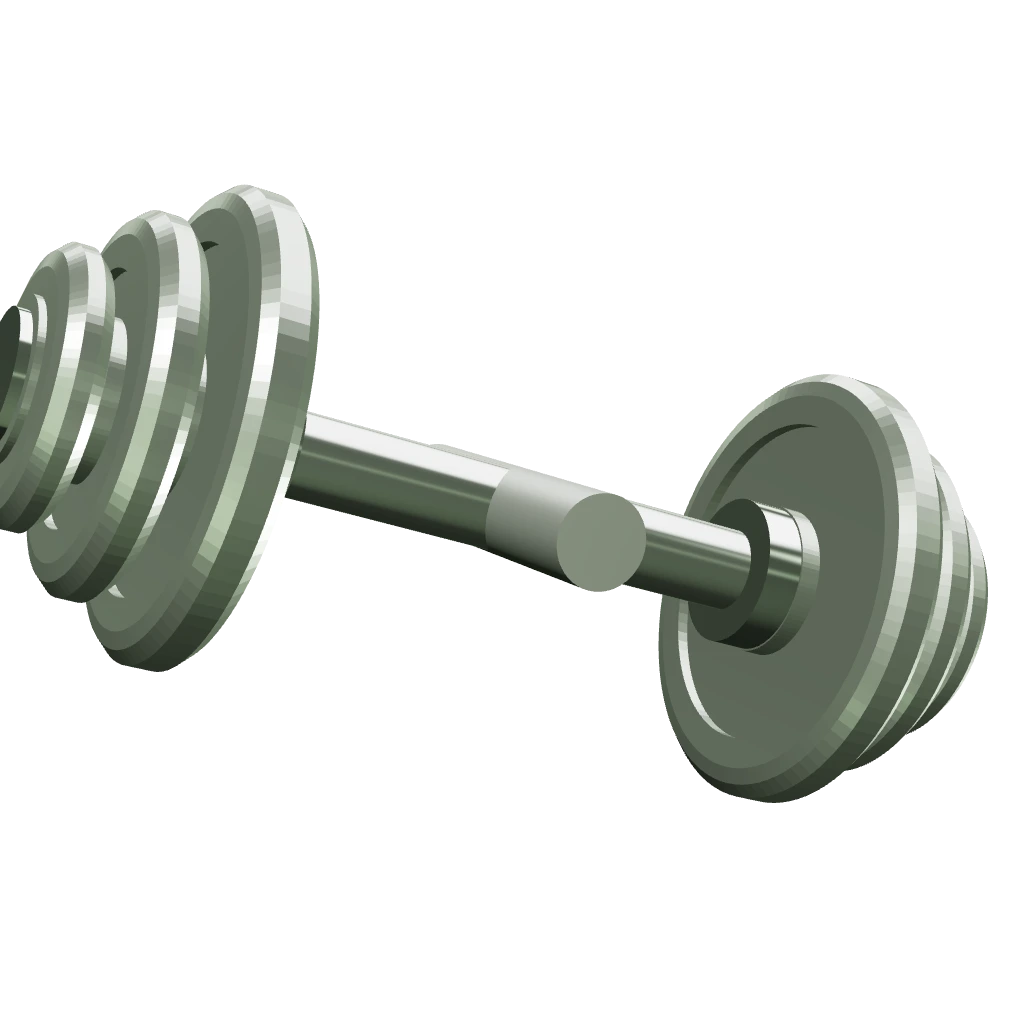
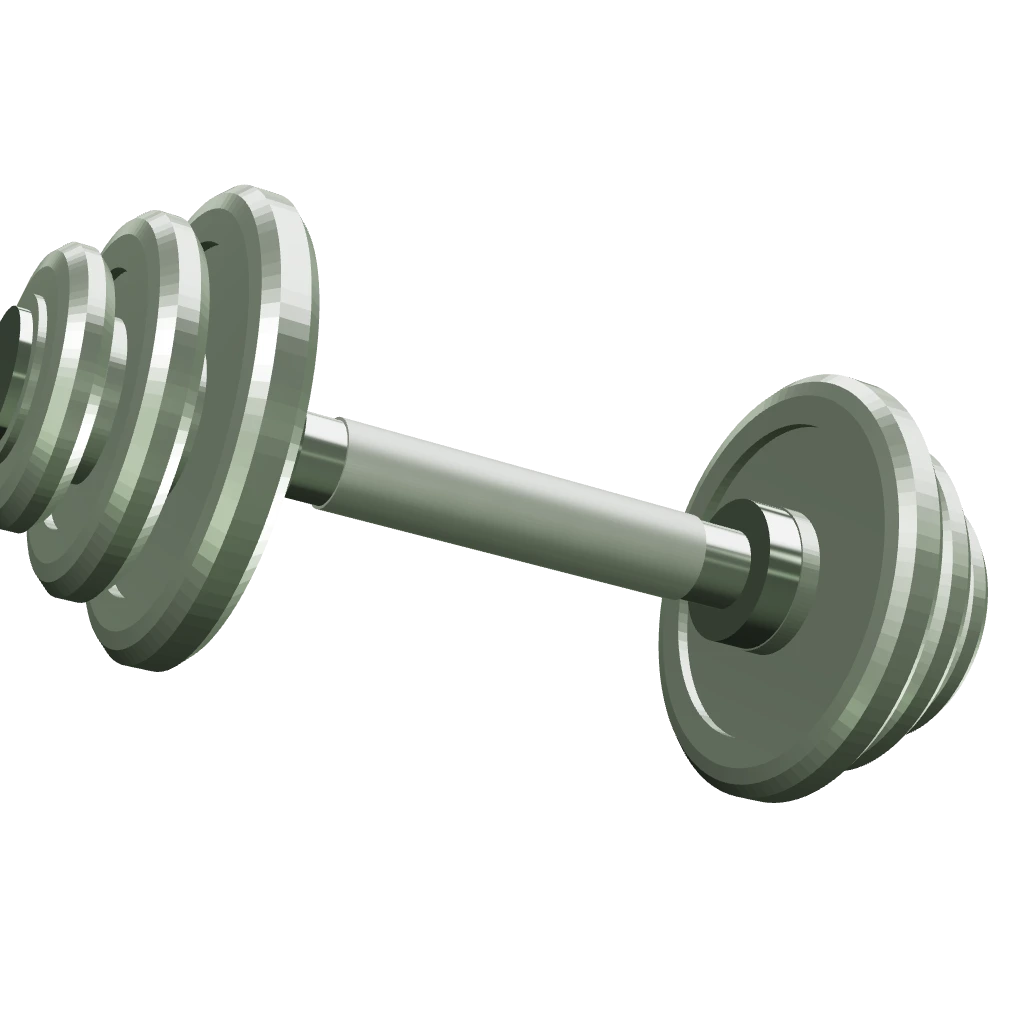
Fix the disc through the bar, and give the weight motion
Two things, both on the hero object.

The render had a disc punched through the middle of the shaft. The knurled
grip sleeve carried a second rotation: cyl() has already laid the cylinder
along X with rotation.z, so a further rotation.y composes on top of it
(Euler XYZ) and swings the sleeve round to point at the camera, showing its
flat end cap. The knurl never needed that rotation -- CylinderGeometry
wraps U around the circumference already, which is the direction the map
repeats in. One line out, re-rendered, 32 KB.

The weight now moves. An 8s idle float carries it up and back with a degree
of roll, and the contact shadow counter-animates -- tightening and fading
as the weight rises, which is what reads as lifting off the page rather
than sliding across it. On scroll it turns -8 degrees across the hero, on
top of the drift and fade that were already derived from --par.

The float and the turn sit on different elements on purpose: one transform
per element, so the keyframe animation cannot silently overwrite the
scroll-driven one. The shadow animates opacity and the standalone scale
property rather than transform, so Tailwind's -translate-x-1/2 keeps
holding it centred. prefers-reduced-motion stops the float outright; the
turn goes to zero on its own, because the scroll handler never starts and
--par stays 0.

Changed region(s): [[0.3125, 0.4062, 0.6875, 0.5938]]

diff --git a/src/frontend/site/hero-object.tsx b/src/frontend/site/hero-object.tsx
@@ -12,12 +12,18 @@ import { useImageFallback } from "@/frontend/site/use-image-fallback";
  * column starting past where the text column ends (`lg:left-[62%]`), and comes
  * up to full strength. Both treatments come from `.hero-object` in globals.css.
  *
- * Motion. The scroll handler writes exactly one number — `--par`, 0 at the top
- * of the page and 1 once the hero has scrolled away — and every visible effect
- * is derived from it in CSS (`.parallax` for the drift, `.hero-object` for the
- * fade). That split is deliberate: `prefers-reduced-motion` switches the whole
- * effect off in the stylesheet, and this component needs no branch for it
- * beyond declining to start the listener.
+ * Motion, in two kinds. The scroll handler writes exactly one number — `--par`,
+ * 0 at the top of the page and 1 once the hero has scrolled away — and every
+ * scroll-driven effect is derived from it in CSS (`.parallax` for the drift,
+ * `.hero-object` for the fade, `--ho-turn` here for the turn). On top of that
+ * the weight keeps a slow idle float of its own, which is a keyframe animation
+ * and knows nothing about scrolling (`.hero-weight` in globals.css).
+ *
+ * The two never share an element: the float owns `transform` on the weight, the
+ * scroll turn owns `transform` on the box around it. Putting both on one
+ * element would let the animation silently win. `prefers-reduced-motion`
+ * switches all of it off in the stylesheet, so this component needs no branch
+ * for it beyond declining to start the listener.
  *
  * Asset. `src` is expected to be a *transparent* PNG/WebP cut-out — the bloom
  * and contact shadow below only seat the object on the olive if the file has
@@ -102,6 +108,10 @@ export function HeroObject({
         ["--ho-x" as string]: "0%",
         ["--ho-y" as string]: "0%",
         ["--ho-scale" as string]: "1",
+        // How far the weight turns across the hero. Derived from `--par` like
+        // every other scroll effect, so it stops with them under reduced
+        // motion without this component testing for it twice.
+        ["--ho-turn" as string]: "calc(var(--par, 0) * -8deg)",
         ...style,
       }}
     >
@@ -119,7 +129,7 @@ export function HeroObject({
         style={{
           aspectRatio: showImage && width && height ? `${width} / ${height}` : "1 / 1",
           transform:
-            "translate(var(--ho-x), var(--ho-y)) scale(var(--ho-scale))",
+            "translate(var(--ho-x), var(--ho-y)) scale(var(--ho-scale)) rotate(var(--ho-turn))",
         }}
       >
         {/*
@@ -152,7 +162,7 @@ export function HeroObject({
             width={width}
             height={height}
             decoding="async"
-            className="absolute inset-0 h-full w-full object-contain"
+            className="hero-weight absolute inset-0 h-full w-full object-contain"
             {...image.props}
           />
         ) : (
@@ -165,7 +175,7 @@ export function HeroObject({
           this behind it, and as a sticker without it.
         */}
         <div
-          className="absolute bottom-[6%] left-1/2 h-[7%] w-[62%] -translate-x-1/2 rounded-[50%] blur-md"
+          className="hero-weight-shadow absolute bottom-[6%] left-1/2 h-[7%] w-[62%] -translate-x-1/2 rounded-[50%] blur-md"
           style={{
             background:
               "radial-gradient(ellipse at center, rgba(11,13,11,0.55), transparent 72%)",
@@ -193,7 +203,7 @@ function PlatePlaceholder() {
   ];
 
   return (
-    <div className="absolute inset-0">
+    <div className="hero-weight absolute inset-0">
       {rings.map(([size, alpha]) => (
         <div
           key={size}

diff --git a/src/app/globals.css b/src/app/globals.css
@@ -318,6 +318,48 @@ html {
 }
 
 /*
+  Hero weight — the object's own motion, in two parts that must not fight.
+
+  The idle float lives here on the weight itself; the scroll drift and the
+  scroll turn live on the layers above it (`.parallax`, and `--ho-turn` on the
+  placement box). Splitting them across elements is what lets a keyframe
+  animation and a scroll-driven transform both run: one `transform` per
+  element, so neither has to win.
+
+  The shadow deliberately animates the *opposite* way and on `opacity`/`scale`
+  rather than `transform` — it has a Tailwind translate holding it centred,
+  and standalone `scale` composes with that instead of replacing it. A weight
+  that rises while its contact shadow tightens reads as lifting off the page;
+  a shadow that floats with it reads as a sticker.
+*/
+@keyframes hero-float {
+  0%,
+  100% {
+    transform: translate3d(0, 1.4%, 0) rotate(-0.7deg);
+  }
+  50% {
+    transform: translate3d(0, -1.8%, 0) rotate(0.8deg);
+  }
+}
+@keyframes hero-float-shadow {
+  0%,
+  100% {
+    opacity: 1;
+    scale: 1 1;
+  }
+  50% {
+    opacity: 0.55;
+    scale: 0.88 0.8;
+  }
+}
+.hero-weight {
+  animation: hero-float 8s ease-in-out infinite;
+}
+.hero-weight-shadow {
+  animation: hero-float-shadow 8s ease-in-out infinite;
+}
+
+/*
   Photographs.
 
   Hard-edged, never rounded: the whole system is built from hairlines and
@@ -401,6 +443,14 @@ html {
   .parallax {
     transform: none;
     will-change: auto;
+  }
+  /*
+    The float stops outright. The scroll turn needs no rule: the handler never
+    starts under reduced motion, so `--par` stays 0 and `--ho-turn` is 0deg.
+  */
+  .hero-weight,
+  .hero-weight-shadow {
+    animation: none;
   }
 }
 

diff --git a/scripts/hero-dumbbell.html b/scripts/hero-dumbbell.html
@@ -174,11 +174,18 @@
   /* ── The dumbbell ── */
   const bell = new THREE.Group();
 
-  // Handle: a plain shaft with a knurled grip over its middle.
+  /*
+    Handle: a plain shaft with a knurled grip sleeve over its middle.
+
+    Do not add a second rotation to the grip. `cyl` has already laid the
+    cylinder along X with rotation.z; a further rotation.y is composed on top
+    of that (Euler XYZ), which swings the sleeve round to point at the camera
+    and puts its flat end cap through the middle of the bar as a disc. The
+    knurl needs no help — CylinderGeometry already wraps U around the
+    circumference, which is the direction the map repeats in.
+  */
   bell.add(cyl(0.2, 3.9, steel));
-  const g1 = cyl(0.215, 1.9, grip);
-  g1.rotation.y = Math.PI / 2;             // run the knurl around the shaft
-  bell.add(g1);
+  bell.add(cyl(0.215, 1.9, grip));
 
   // Per side: inner collar, three plates stepping down, end nut.
   for (const s of [1, -1]) {
